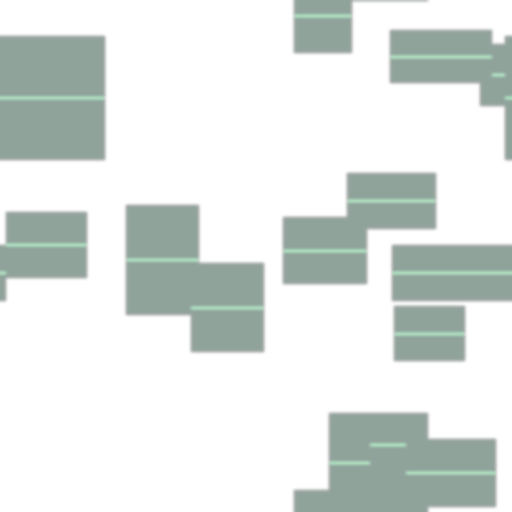
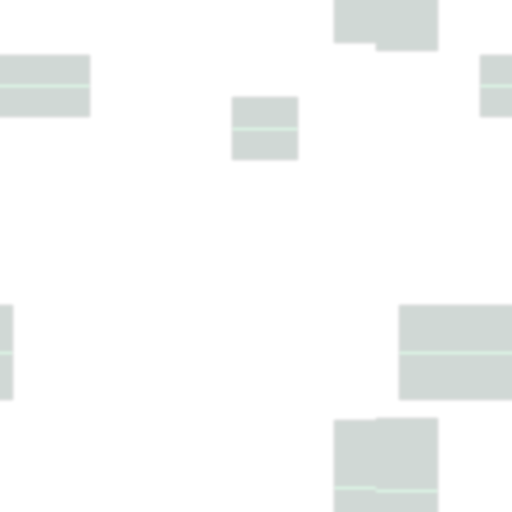
feat(v3-tier0): vsync + backdrop restraint
- SDL_SetRenderVSync(1) after renderer creation. Timer busy-wait stays as a
  pacing floor; --seed runs still force deterministic dt, so replay is
  untouched. Dummy/offscreen drivers reject vsync harmlessly.
- Backdrop generators calmed hard for the Laser Hockey read: far stars
  55@120a (was 140@200a), mid machinery 5 rects@55a (was 14@130a), near grid
  128px cells@26a (was 64px@40a). Galaxy's bespoke layers untouched.
- Regenerated the 12 generic-arena bg PNGs (props byte-identical).
- plans/v3-neon-polish-plan.md: the five-tier plan this branch implements.

Canary: seed-42 3000-frame summary byte-identical pre/post. Zero warnings.

Claude-Session: https://claude.ai/code/session_01DN6mL6kS43rdp7huj63uMr

diff --git a/assets/generator/v2/make_backdrops.py b/assets/generator/v2/make_backdrops.py
@@ -69,31 +69,35 @@ def far_layer(pal, rng):
         for x in range(0, T):
             img.putpixel((x, y), (c[0], c[1], c[2], 255))
     d = ImageDraw.Draw(img)
-    # stars / distant motes
-    for _ in range(140):
+    # stars / distant motes — v3 Tier 0: sparser and dimmer. The field is a hint
+    # of depth, not a subject; the Laser Hockey read needs a near-empty ground so
+    # the neon foreground owns the frame.
+    for _ in range(55):
         x, y = rng.randint(0, T), rng.randint(0, T)
         r = rng.choice([1, 1, 1, 2])
         b = rng.uniform(0.4, 1.0)
         col = pal.accent if rng.random() < 0.3 else (200, 200, 220)
-        wrap_dot(d, x, y, r, col, int(200 * b))
+        wrap_dot(d, x, y, r, col, int(120 * b))
     return img
 
 
 def mid_layer(pal, rng):
     img = Image.new("RGBA", (T, T), (0, 0, 0, 0))
     d = ImageDraw.Draw(img)
-    # machinery silhouettes: dim rectangles + glowing seams, sparse
-    for _ in range(14):
+    # machinery silhouettes: dim rectangles + glowing seams — v3 Tier 0: far
+    # fewer and far darker. At 14 rects / alpha 130 this layer competed with the
+    # enemies for visual density; it is now a whisper of structure.
+    for _ in range(5):
         w, h = rng.randint(40, 130), rng.randint(40, 160)
         x, y = rng.randint(0, T), rng.randint(0, T)
         base = lerp(pal.clear, pal.obstacle, 0.6)
         for ox in (-T, 0, T):
             for oy in (-T, 0, T):
                 d.rectangle([x+ox, y+oy, x+ox+w, y+oy+h],
-                            fill=(base[0], base[1], base[2], 130))
+                            fill=(base[0], base[1], base[2], 55))
                 # glowing seam line
                 d.line([x+ox, y+oy+h//2, x+ox+w, y+oy+h//2],
-                       fill=(pal.primary[0], pal.primary[1], pal.primary[2], 90), width=2)
+                       fill=(pal.primary[0], pal.primary[1], pal.primary[2], 45), width=2)
     img = img.filter(ImageFilter.GaussianBlur(1.5))
     return img
 
@@ -102,15 +106,17 @@ def near_layer(pal, rng):
     img = Image.new("RGBA", (T, T), (0, 0, 0, 0))
     d = ImageDraw.Draw(img)
     # a faint neon grid (divides 512 evenly -> tiles) with occasional bright nodes
-    step = 64
+    # v3 Tier 0: wider cells, fainter lines, rarer nodes — one crisp line reads
+    # better than many faint ones.
+    step = 128
     col = pal.primary
     for i in range(0, T, step):
-        d.line([i, 0, i, T], fill=(col[0], col[1], col[2], 40), width=1)
-        d.line([0, i, T, i], fill=(col[0], col[1], col[2], 40), width=1)
+        d.line([i, 0, i, T], fill=(col[0], col[1], col[2], 26), width=1)
+        d.line([0, i, T, i], fill=(col[0], col[1], col[2], 26), width=1)
     for gx in range(0, T, step):
         for gy in range(0, T, step):
-            if rng.random() < 0.12:
-                wrap_dot(d, gx, gy, 3, pal.accent, 120)
+            if rng.random() < 0.08:
+                wrap_dot(d, gx, gy, 3, pal.accent, 90)
     return img
 
 

diff --git a/CPP/game/main.cpp b/CPP/game/main.cpp
@@ -140,6 +140,11 @@ int main(int argc, char* argv[]) {
     if (!window) { std::cerr << "Window: " << SDL_GetError() << std::endl; SDL_Quit(); return 1; }
     SDL_RendererPtr renderer(SDL_CreateRenderer(window.get(), nullptr));
     if (!renderer) { std::cerr << "Renderer: " << SDL_GetError() << std::endl; SDL_Quit(); return 1; }
+    // v3 Tier 0: vsync for tear-free presentation. The Timer's busy-wait stays as a
+    // pacing floor; measured delta_time drives windowed play, and --seed runs force
+    // set_deterministic(true), so replay determinism is untouched. Best-effort: the
+    // dummy/offscreen drivers reject vsync and that is fine.
+    SDL_SetRenderVSync(renderer.get(), 1);
 
     // === ECS + config ===
     EntityManager entity_manager;

diff --git a/plans/v3-neon-polish-plan.md b/plans/v3-neon-polish-plan.md
@@ -1,0 +1,121 @@
+# Reactor Drone v3 — Neon Polish plan (branch: visual-overhaul)
+
+Goal: the Wii Play *Laser Hockey* read — near-black field, few crisp lines, real bloom,
+motion trails, rock-solid frame delivery. Five tiers, each independently shippable and
+committed separately. Every tier leaves the standing gates green:
+
+- Zero warnings (`-Wall -Wextra -Wpedantic`, Lua `tmpnam` exempt).
+- 100% ctest (`runTestsAll.py`).
+- Deterministic replay canary: `SDL_VIDEODRIVER=dummy ./CPP/build/game/game --seed 42
+  --keys 10:SPACE --stopframe 3000` prints a byte-identical summary before/after the tier.
+  All five tiers are presentation-only, so the canary must never move.
+- `ENGINE.md` updated in the same commit as any engine change (its maintenance rule).
+
+Verification per tier additionally includes `--screenshot` captures at fixed frames,
+compared by eye (screenshots land in `logs/`).
+
+---
+
+## Tier 0 — Frame delivery + art restraint  *(no new components)*
+
+1. **Vsync**: `SDL_SetRenderVSync(renderer.get(), 1)` after renderer creation in
+   `main.cpp`. Timer keeps its busy-wait as a floor; measured `delta_time` already
+   drives windowed play, `--seed` runs stay deterministic (`set_deterministic` is
+   seed-gated). Nothing else changes.
+2. **Pre-scaled sprites**: enemy/player art is 512² drawn at ~40px — a 12:1 bilinear
+   minification shimmer. In `make_sprites.py`, render at 4× the largest in-game draw
+   size and downsample with Pillow LANCZOS (offline supersampling). Commit regenerated
+   PNGs. Generators stay offline.
+3. **Backdrop restraint**: in `make_backdrops.py`, kill the busy near layer — flat
+   near-black clear, one thin grid on the mid layer, sparse stars far. Regenerate,
+   commit. Per-palette accent count drops: body colors converge on dark desaturated
+   base + ONE neon hue + white highlights.
+
+## Tier 1 — Render-target bloom  *(one new engine file)*
+
+`CPP/engine/ecs/systems/bloom_system.{hpp,cpp}` (~150 lines):
+- On init: create the scene target (logical 980×660) plus a downsample chain of
+  4 render-target textures (÷2 each, linear scale mode).
+- Frame: `SDL_SetRenderTarget(scene)` before world render → after world render,
+  blit scene down the chain (linear filtering = free box blur per step), then
+  composite each level back over the backbuffer with `SDL_BLENDMODE_ADD` and a
+  per-level intensity from GameData (`"bloom": {levels, intensities[], enabled}`).
+- No bright-pass: emissives are already the only bright content on near-black.
+- `main.cpp`: two calls (`bloom.begin()` before `render_layers`, `bloom.resolve()`
+  after `ui_render_system.render` — UI *inside* bloom keeps menus glowing like the
+  Laser Hockey HUD; if it reads mushy, move resolve before UI. Decide by screenshot).
+- Headless/dummy driver must keep working: if target creation fails, bloom disables
+  itself and the pipeline is exactly today's (screenshot path unaffected).
+- Pure math (chain sizes, intensity clamp) in `bloom_math.hpp` + unit test.
+
+## Tier 2 — Emissive separation  *(asset convention + render bucket)*
+
+1. Generators emit two PNGs per sprite: `X_base.png` (dark hull, crisp edge) and
+   `X_glow.png` (neon lines only, white, tinted at runtime like enemy sprites).
+2. New optional component field: `Images::glow_texture` (or a parallel `GlowSprite`
+   component if storage is cheaper — decide at the code). RenderSystem draws base in
+   the normal pass; glow sprites are drawn additively into a separate **emissive
+   target** that seeds the bloom chain instead of the full scene.
+3. Bloom then reads ONLY emissive content → cores blow to white, hulls stay dark.
+   This is the "hot vs soft" upgrade.
+4. Backward compatible: a sprite with no `_glow` sidecar renders exactly as today.
+
+## Tier 3 — Motion  *(two small components)*
+
+1. **`Trail` component** + `trail_system`: ring buffer of the last N transforms
+   (N, spacing, fade from GameData); redrawn behind the entity as decaying additive
+   sprites into the emissive target. Player drone, projectiles, dash. Pure ring-buffer
+   math in a header + unit/property test.
+2. **Hit-stop**: on kill/boss-hit, freeze the sim (not the renderer) for 40–80 ms.
+   Implemented as a `hitstop_timer` the main loop checks alongside `sim` —
+   frame-count based so replays stay deterministic (it consumes frames, not wall
+   time... NO: hit-stop changes frame counts → changes `--stopframe` results. Instead:
+   hit-stop scales `delta_time` to 0 for K frames — RNG draws still happen in fixed
+   order, systems integrate zero motion, frame counter still advances. Canary safe
+   only if K frames of zero-dt produce identical draw counts — they do, since draws
+   are per-update not per-dt. Verify canary explicitly.)
+3. **Camera punch**: existing trauma system gains a zoom impulse (decays with trauma).
+4. **Impact squash**: on hit, a 100 ms scale-x/scale-y pulse via existing `Size` +
+   a `Squash` timer folded into `Flash`-style feedback (reuse `flash_system` idiom).
+
+## Tier 4 — GPU render states + shaders  *(toolchain cost lands here)*
+
+SDL 3.5 `SDL_CreateGPURenderer` + `SDL_CreateGPURenderState` — custom SPIR-V fragment
+shaders on ordinary SDL_Renderer draws. NVIDIA + Vulkan ICD present on this machine.
+
+1. Renderer creation becomes `SDL_CreateGPURenderer(NULL, window)` behind a
+   `--classic-renderer` escape hatch (and automatic fallback when GPU init fails —
+   dummy/offscreen drivers keep the classic path, so headless testing is untouched).
+2. Shaders authored in GLSL, compiled offline to SPIR-V with `glslc` (install via
+   `shaderc` / Vulkan SDK, checked into `assets/shaders/` as `.spv` — same
+   offline-generator discipline as the PNGs; build never compiles shaders).
+3. Effects, each data-gated in GameData and all presentation-only:
+   - Proper thresholded Gaussian bloom (replaces Tier 1 chain when GPU path active;
+     Tier 1 stays as the classic-renderer fallback).
+   - Chromatic aberration + vignette (subtle, always on).
+   - Radial shockwave distortion on boss death / arena shift (reads the existing
+     `arena-vfx` hook's state).
+   - Color-grade LUT per arena palette (32³ LUT PNGs from a new offline generator).
+4. `bloom_system` grows a strategy split: `classic` (Tier 1) / `gpu` — selected once
+   at init. ENGINE.md documents which path each build takes.
+
+## Tier 5 — Neon line renderer  *(the permanent crispness fix)*
+
+`CPP/engine/ecs/systems/line_render_system.{hpp,cpp}` on `SDL_RenderGeometry`:
+- Polyline → triangle-strip ribbon with per-vertex UV driving a soft-falloff glow
+  texture (reuse `glow_disc` as the 1D falloff), additive, camera-transformed,
+  resolution-independent at any zoom.
+- Pure geometry math (`line_mesh_math.hpp`: miter joins, ribbon widths, UV walk)
+  unit + property tested — this is the real engineering of the tier.
+- Consumers, in order: arena boundary circle (currently invisible geometry), obstacle
+  outlines, laser beams (replaces the beam sprite), enemy shot tracers, dash arc.
+- `LineGlow` component: `points[], width, color, additive` — authored from GameData
+  for static shapes, written by systems for dynamic ones.
+
+---
+
+## Order & git
+
+Tiers land in order 0→5, one commit each (Tier 4 may be several: renderer swap /
+each effect). After each: gates + canary + screenshots. Push `visual-overhaul` with
+`-u` on first push. Merging waits for the pre-merge branch (user's call).
